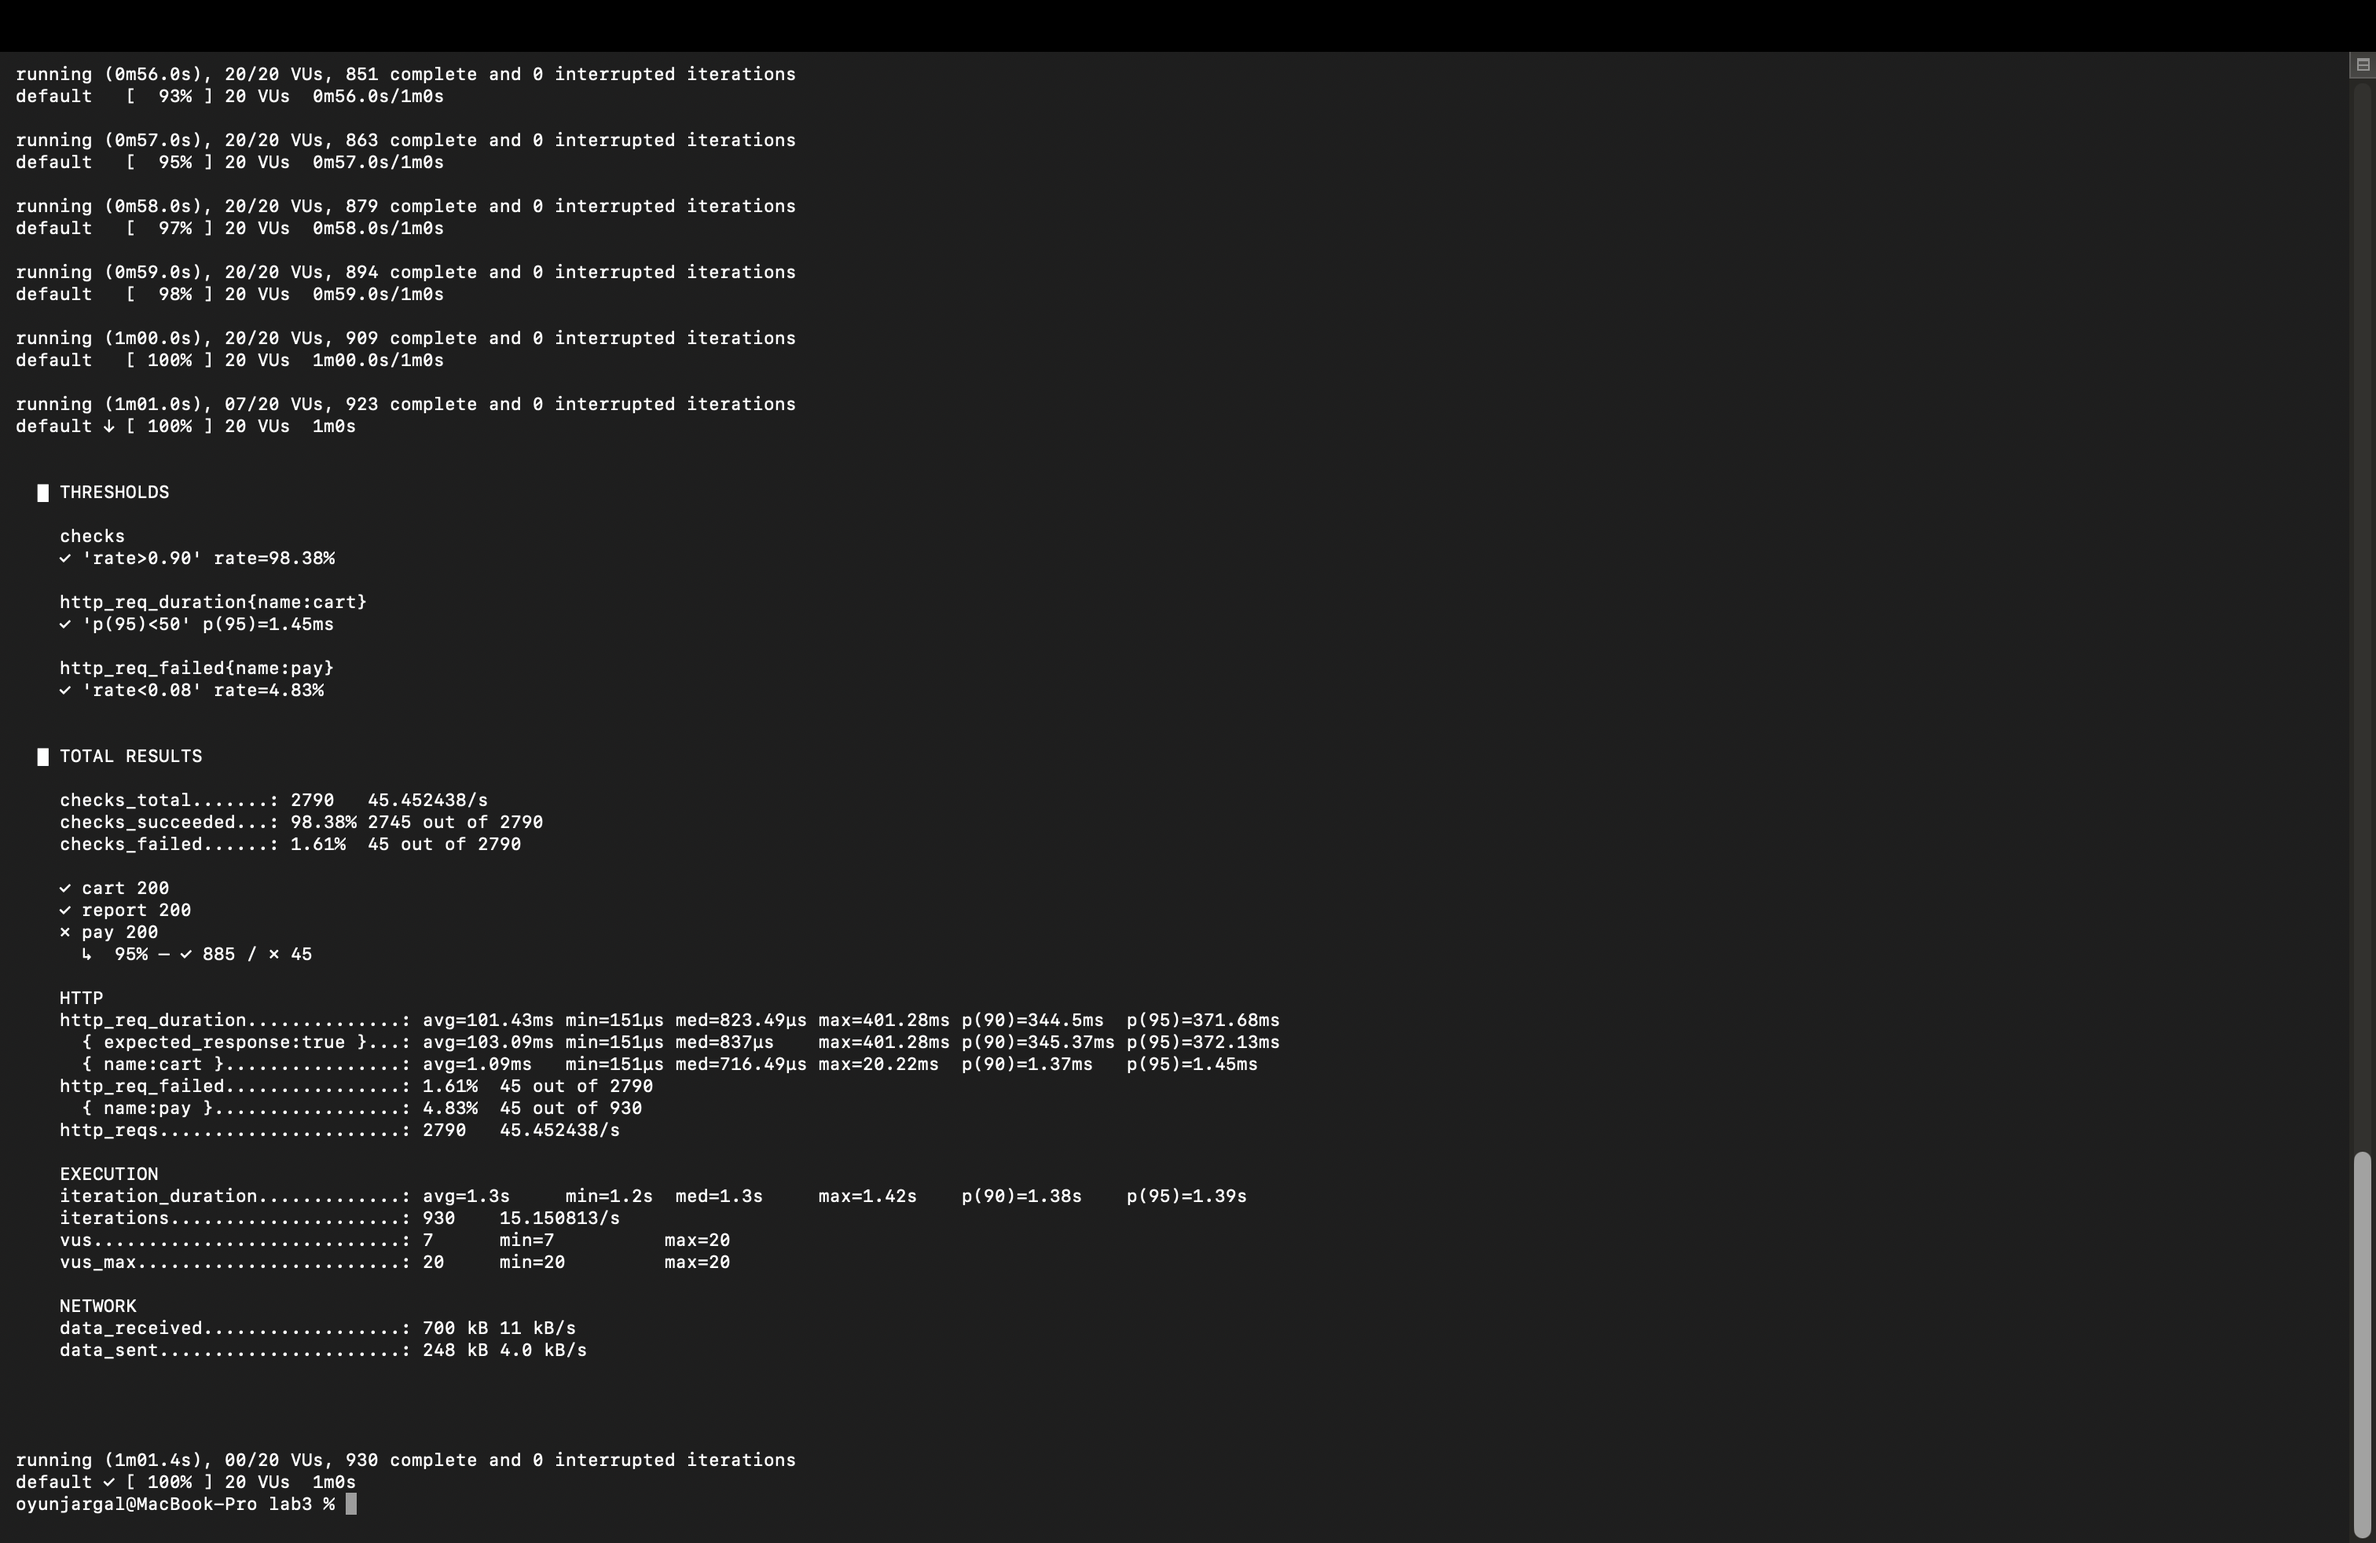
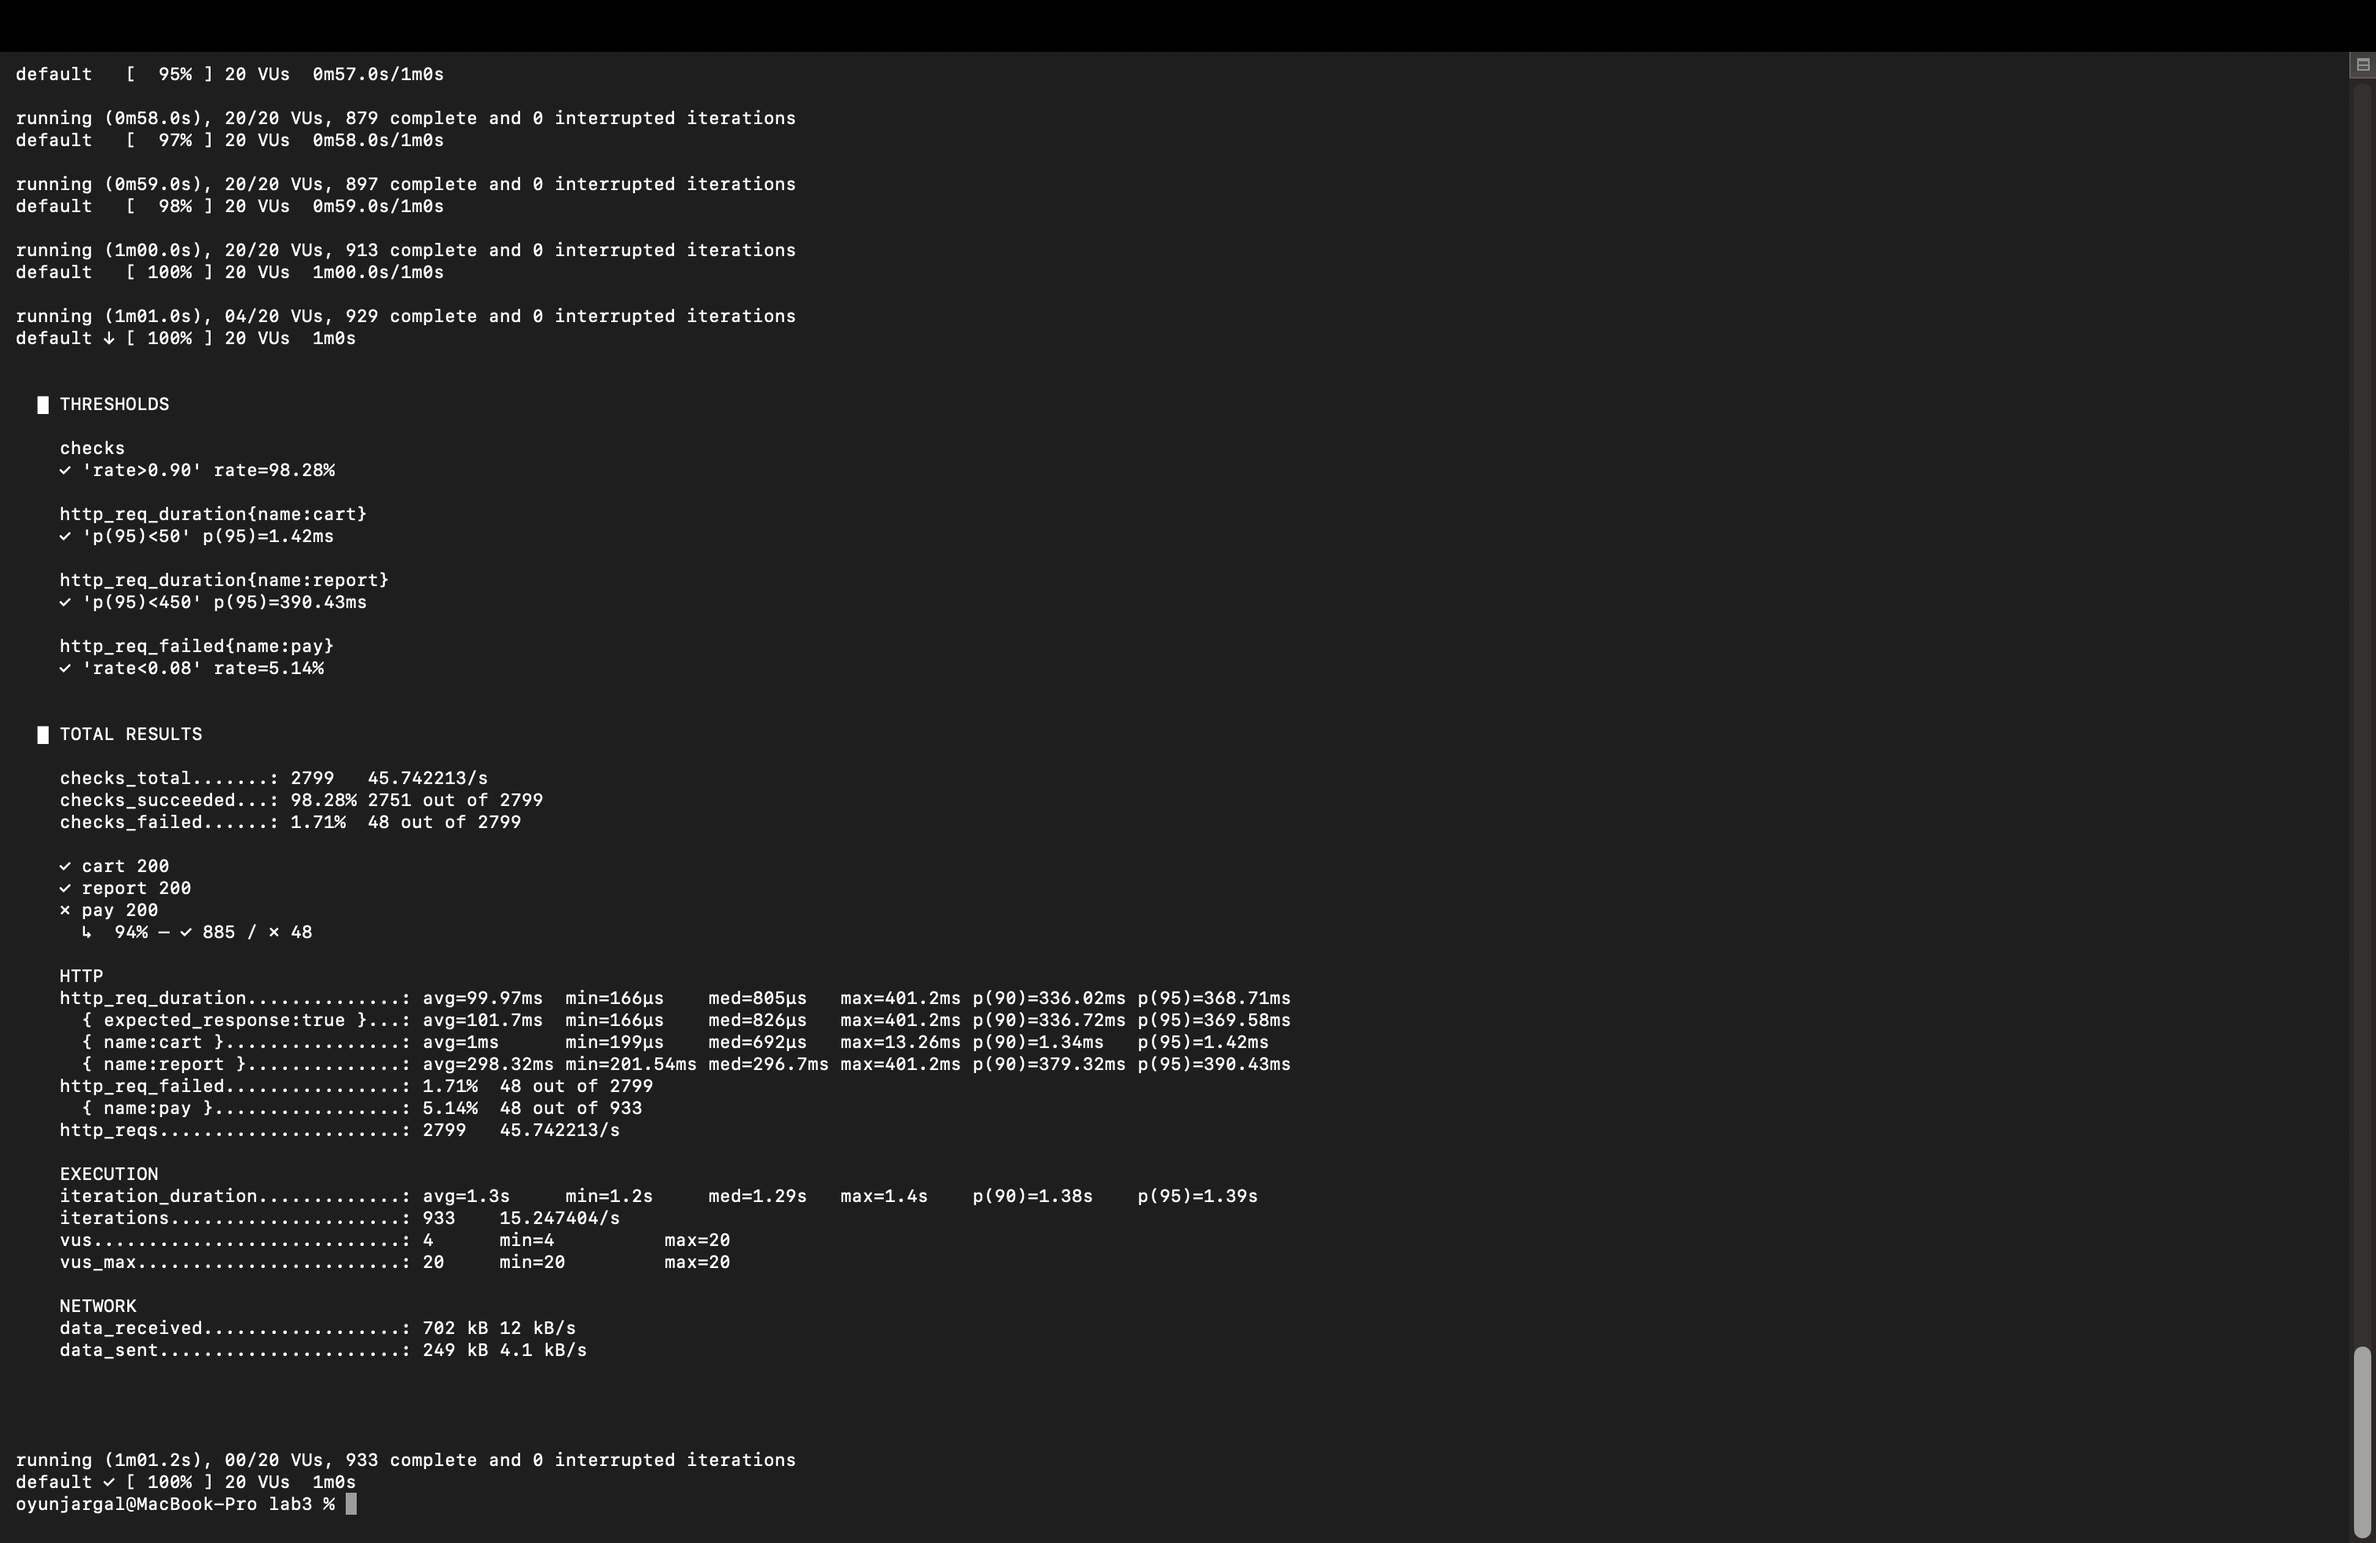
/report threshold нэмэн туршив.

diff --git a/slo-test.js b/slo-test.js
@@ -4,10 +4,11 @@ import { check, sleep } from 'k6';
 export const options = {
     vus: 20, duration: '1m',
     thresholds: {
-        'http_req_duration{name:cart}': ['p(95)<50'], // Performance SLO
-        'http_req_failed{name:pay}': ['rate<0.08'], // Reliability SLO
-        'checks': ['rate>0.90'], // Availability SLO
-    },
+    'http_req_duration{name:cart}': ['p(95)<50'],
+    'http_req_failed{name:pay}': ['rate<0.08'],
+    'http_req_duration{name:report}': ['p(95)<450'],
+    'checks': ['rate>0.90'],
+},
 };
 
 export default function () {

diff --git a/README.md b/README.md
@@ -52,10 +52,11 @@ k6 v2.2.0 (commit/devel, go1.26.5, darwin/arm64)
 | Performance  | `/cart/add` latency p95    | **< 50 ms** | 20 VU, 1 мин          |
 | Reliability  | `/pay` error rate          | **< 8%**    | 20 VU, 1 мин          |
 | Availability | бүх хүсэлтийн success rate | **≥ 90%**   | 2 мин, 10 сек зогсолт |
+| Performance нэмэлт | `/report` latency p95 | **< 450 мs** | 20 VU, 1 мин |
 
 ## Босго сонгосон үндэслэл: 
 
-* Performance — 50 ms: /cart/add нь локал сервер дээр маш хурдан хариу өгдөг endpoint бөгөөд бодит туршилтаар p95 нь ойролцоогоор 1–2 ms байсан. Тиймээс 200 ms босго хэт сул байж болох тул 50 ms-ийн босго сонгосон.
+* Performance — 50 ms: /cart/add нь локал сервер дээр маш хурдан хариу өгдөг endpoint бөгөөд бодит туршилтаар p95 нь ойролцоогоор 1–2 ms байсан. Тиймээс 200 ms босго хэт сул байж болох тул 50 ms-ийн босго сонгосон. `/report` endpoint-ийн хэвийн ажиллагааны хурд болон ачааллын үеийн гүйцэтгэлд үндэслэн threshold-ыг `p(95) < 450 мс` гэж сонгосон.
 * Reliability — 8%: /pay endpoint-д серверийн түвшинд ойролцоогоор 5% санамсаргүй 500 алдаа үүсгэхээр тохируулсан. Иймээс 5%-иас бага биш, бага зэрэг нөөцтэй 8%-ийн босго сонгосон.
 * Availability — 90%: Chaos туршилтаар серверийг 10 секунд зогсоох тул нийт хүсэлтийн дор хаяж 90%-ийг амжилттай боловсруулах шаардлага тавьсан.
 
